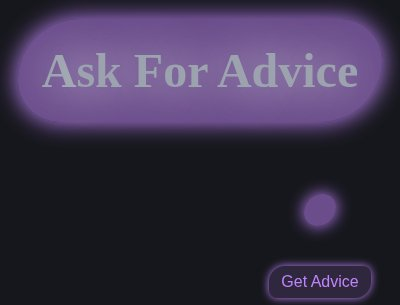
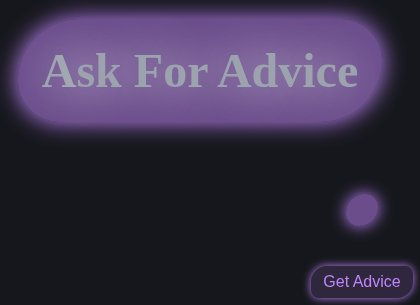
fix(ssg): update thumb images

Changed region(s): [[0.09, 0.0295, 0.99, 0.4426], [0.66, 0.8557, 1.0, 1.0], [0.72, 0.5902, 0.93, 0.7672]]

diff --git a/src/services/pageThumbnail.ts b/src/services/pageThumbnail.ts
@@ -5,12 +5,15 @@ export default async function pageThumbnail(repos: Array<any>) {
   console.log('Starting Browser');
   const browser = await puppeteer.launch();
   const page = await browser.newPage();
+  await page.setViewport( {width: 1080, height: 1024})
 
   for (const repo of repos) {
     try {
       if(repo.homepage == null) { continue }; 
       console.log(repo.homepage);
-      await page.goto(repo.homepage);
+      await page.goto(repo.homepage, {
+	waitUntil: 'networkidle0'
+      });
      const imageBuffer = await page.screenshot({
 	//path: `./src/assets/img/thumb/${repo?.name}.png`,
 	type: 'png',
